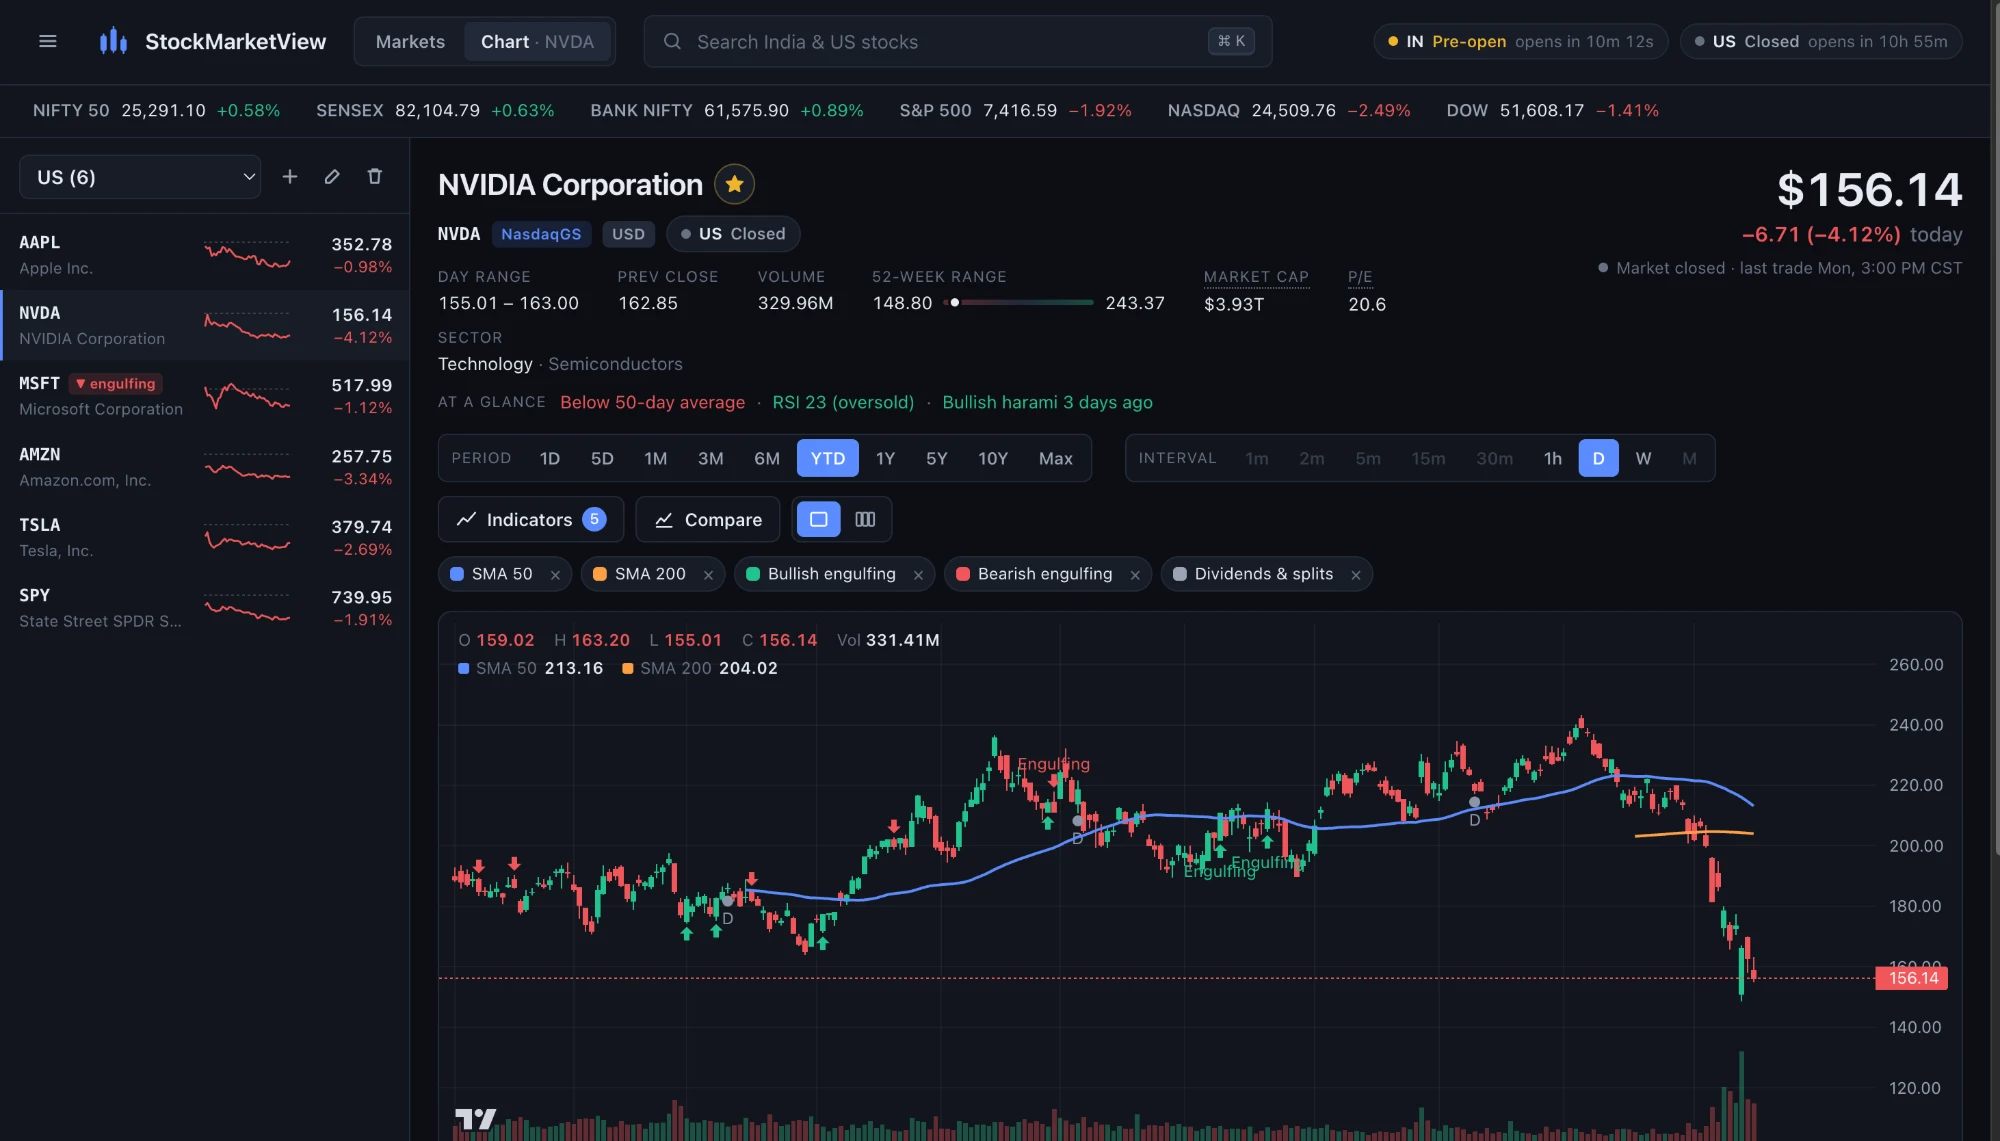
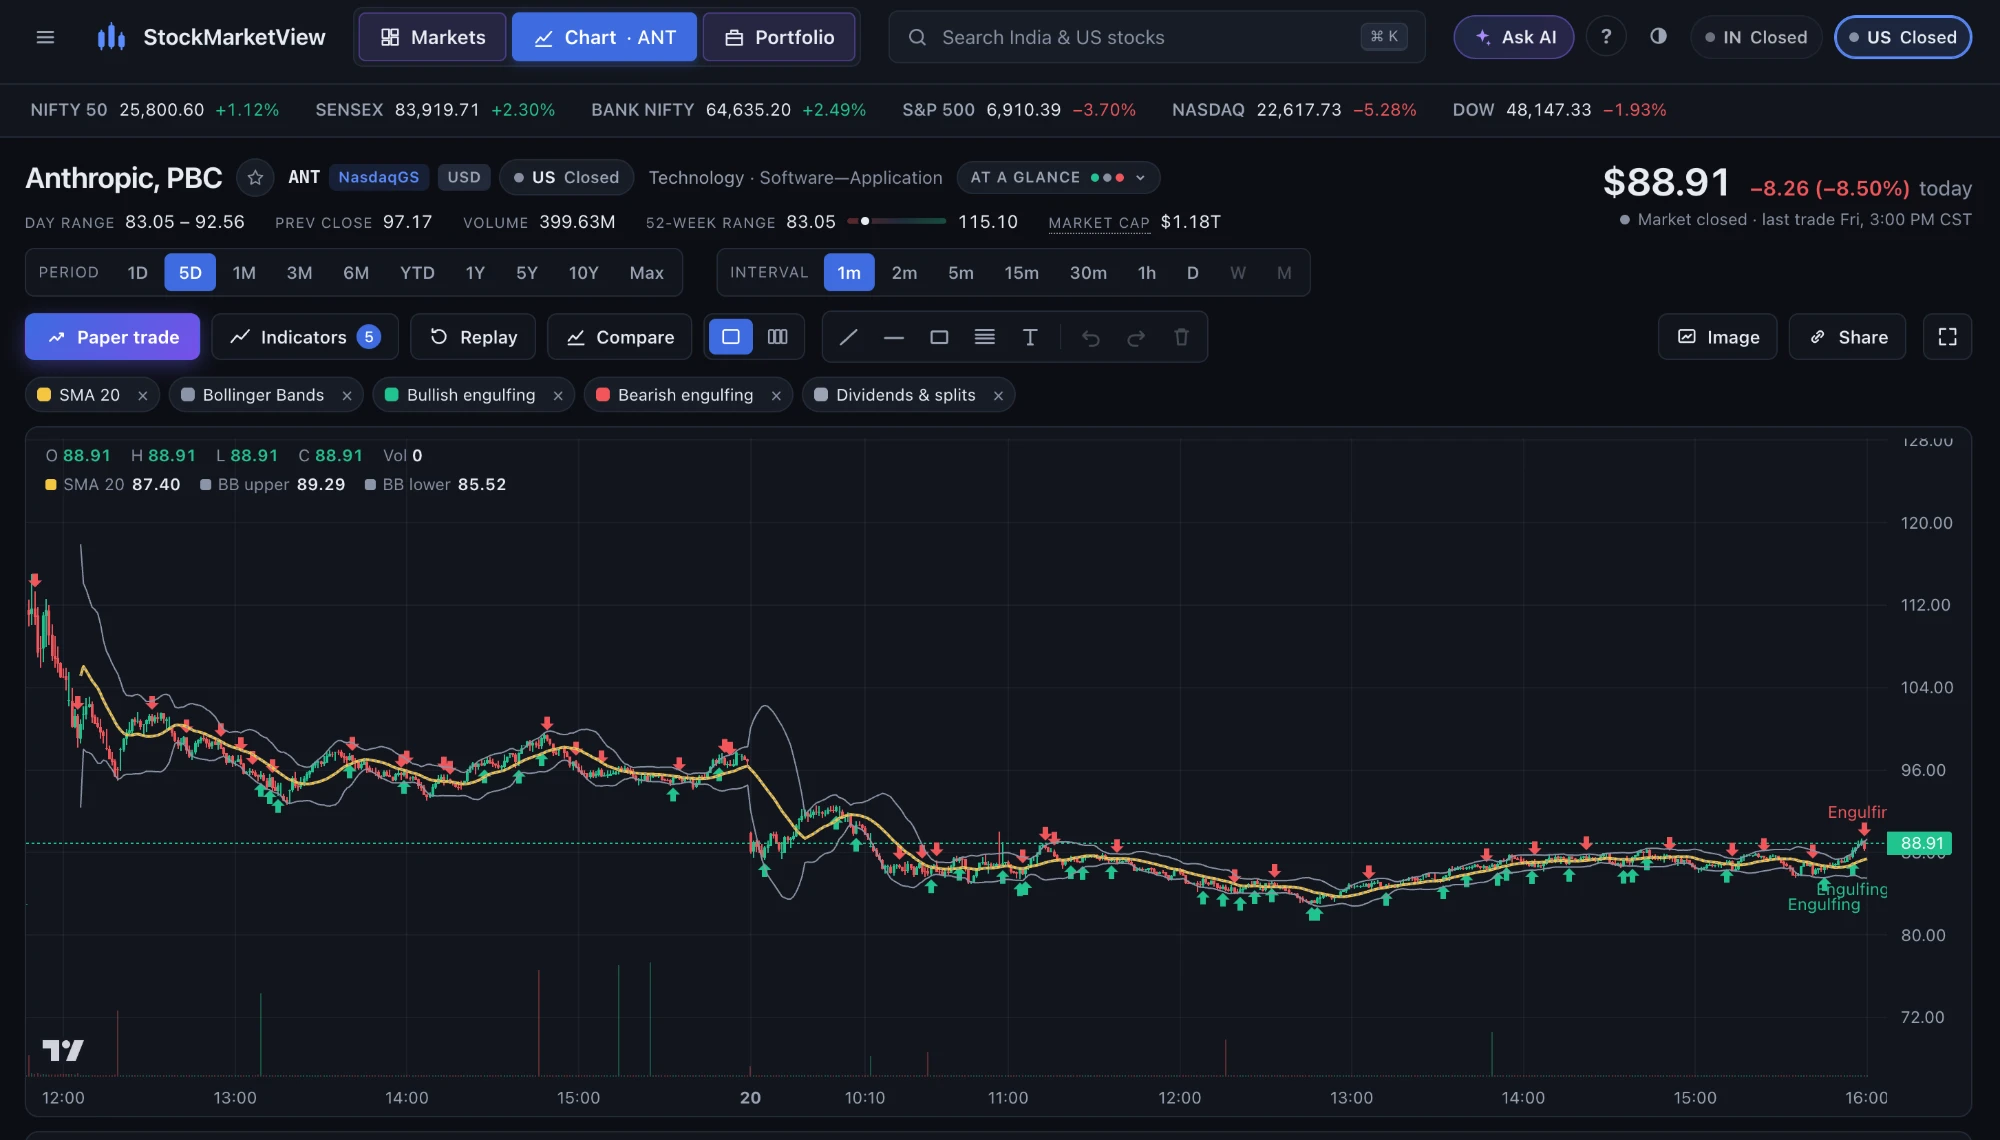
Slower, unified section animation and new StockMarketView screenshot
Dots, cards and text now ease into each section together over about
1.3 s, while scrolling speed is unchanged. Menu, database and search
jumps morph over the same time. The StockMarketView card uses a new
screenshot.

diff --git a/site/index.html b/site/index.html
@@ -636,7 +636,7 @@ button.card:hover{border-color:var(--accent)}
   Object.keys(KNAME).forEach(function(k){HASHK[KNAME[k]]=+k});
   var LX=new Float32Array(N),LY=new Float32Array(N),LS=new Float32Array(N),LA=new Float32Array(N),LR=new Float32Array(N),LG=new Float32Array(N),LB=new Float32Array(N);
   var FX=new Float32Array(N),FY=new Float32Array(N),FS=new Float32Array(N),FA=new Float32Array(N),FR=new Float32Array(N),FG=new Float32Array(N),FB=new Float32Array(N);
-  var blendT=-1,drawn=false,BLEND=650;
+  var blendT=-1,drawn=false,BLEND=1300;
   function jump(k){
     var md=document.getElementById('modal');if(md&&!md.hidden)md.hidden=true;
     if(drawn&&!reduce){FX.set(LX);FY.set(LY);FS.set(LS);FA.set(LA);FR.set(LR);FG.set(LG);FB.set(LB);blendT=performance.now()}
@@ -761,7 +761,7 @@ button.card:hover{border-color:var(--accent)}
     // Ease toward the real scroll position so wheel steps never make the records jump.
     // Ease toward the real scroll position at the same speed on every screen refresh rate.
     var dt=lastT?Math.min(64,now-lastT):16;lastT=now;
-    if(pS<0||reduce)pS=p;else{var dp=p-pS;pS+=Math.abs(dp)<.00002?dp:dp*(1-Math.exp(-dt/95))}
+    if(pS<0||reduce)pS=p;else{var dp=p-pS;pS+=Math.abs(dp)<.00002?dp:dp*(1-Math.exp(-dt/430))}
     var q0=pS;paint(q0);
     var narrow=W<820,k=narrow?Math.min(W/760,Hh/1650):Math.min(W/1350,Hh/740);
     // On phones the database sits clear of the top bar, above the text.
